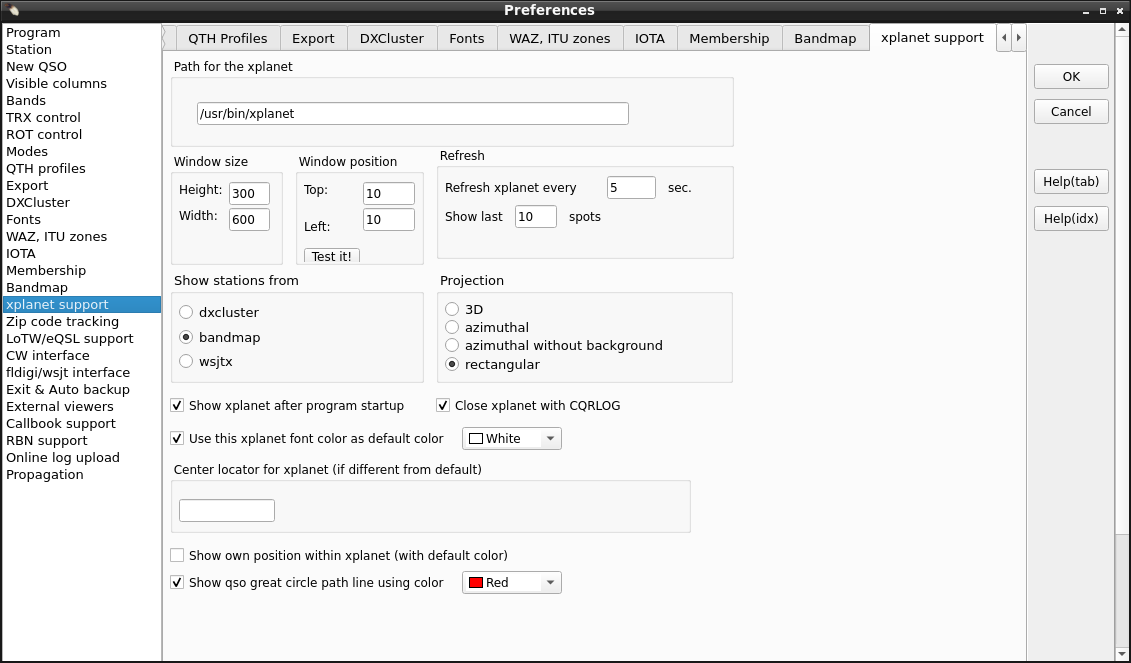
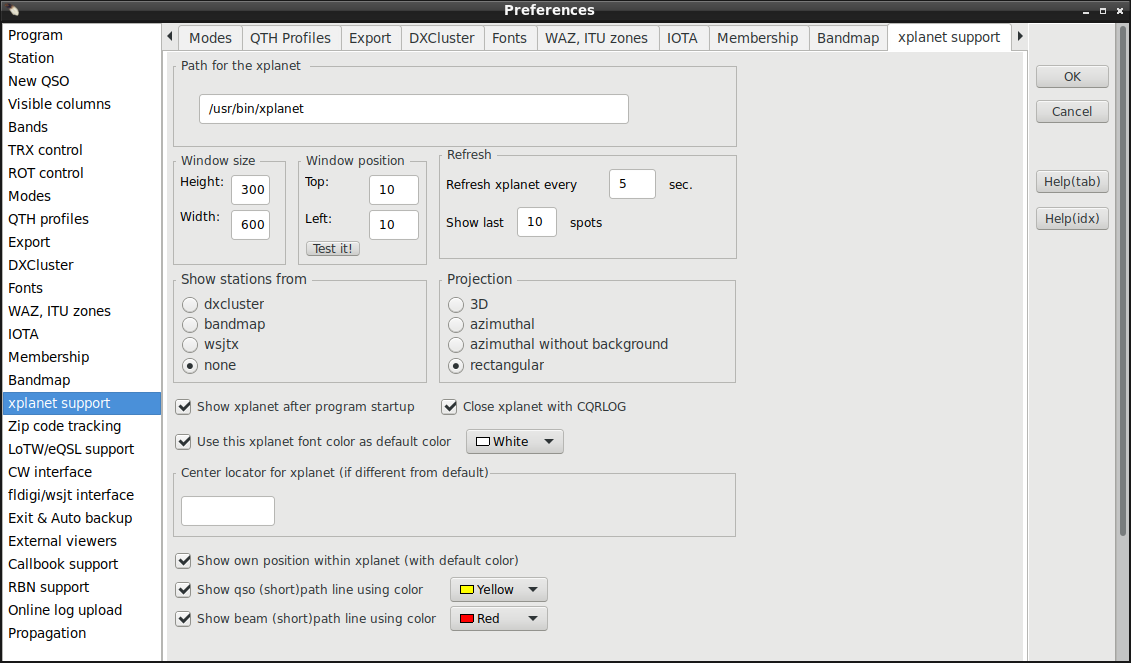
Xplanet:Add:Show Beam path in Xplanet (if rotor assigned) (this need some math fixes still)

diff --git a/help/h1.html b/help/h1.html
@@ -647,17 +647,22 @@ There are no known dependencies issues.<br><br>
     300x300 etc. to avoid strange effects). Also, the <strong>window position</strong>
     must be set up to create a nice looking screen. Use the <strong>Test it!</strong>
     button to see how your settings affect the resulting screen.<br><br>
+    There are also other settings that you may like to change. Open ~/.config/cqrlog/xplanet/geoconfig file with text editor.
+    With lines in [earth] section:
+    <br>twilight=50
+    <br>shade=5
+    <br>you can create Grayline. Adjust values suitable for you. For other settings: consult xplanet man pages.
+    <br>
     Xplanet can refresh its display at a preset interval. This is very useful because it
     can read the spot (entry) list and update the displayed data. To avoid a 'flooded',
     unreadable window, the number of displayed spots/entries must be limited. It seems
     that 20 is the maximum to keep the display garbage away. Actually, the number of
     spots (entries) is not limited by the program but by the readability. If you change
     the number of spots to be displayed or if the spots should (should not) be sent to
-    xplanet, restart the program. Remember that a program restart will be needed to
-    make the changes take effect!<br><br>
-    Set up the source (DX Cluster, Band map) by checking the appropriate radio button
+    xplanet,  Remember that the change may take some refresh periods to make the changes take effect!<br><br>
+    Set up the source (DX Cluster, Band map, Wsjtx, None) by checking the appropriate radio button
     in the '<strong>Show stations from</strong>' section. The '<strong>Projection</strong>'
-    has 3 options:<br>
+    has 4 options:<br>
     <ul>
         <li><strong>3D</strong> - shows the globe as viewed from space. This rendering
             type without any projection is very nice, however the very distant points will not be
@@ -676,14 +681,15 @@ There are no known dependencies issues.<br><br>
             'emergency' solution which is useful if you have not enough space to set up
             the main xplanet window as a square.
         </li>
+        <li><strong>Rectangular</strong> - is the same as Grayline map has
+        </li>
     </ul>
     The center locator for the xplanet window can be customized by configuring in on 
-    this page. In case the field is empty the default locator of the station is used.<br><br>
+    this page. In case the field is empty the default locator of the station is used.<br>
     If you want to have your own position displayed within xplanet check the <strong>Show own 
-    position within xplanet</strong> checkbox.<br><br>
-    this page. In case the field is empty the default locator of the station is used.<br><br>
-    The xplanet window currently has no other function than to display spots or band
-    map entries in the azimuthal projection or 3D-like picture.
+    position within xplanet</strong> checkbox. Own position is always shown with selected default color.<br>
+    The xplanet window has also functions to display Qso short path and Beam path (if rotor assigned) with selected colors
+    in the 3D-like, azimuthal projection or rectangular picture.
     <br><br>
     <a name=bh3><h2><strong>Zip code tracking</strong></h2></a>
     <img src=img/h69.png border=0><br><br>

diff --git a/help/h21.html b/help/h21.html
@@ -252,10 +252,11 @@ So any time you like you can make it larger and chat lines are there to check.</
     </tr><tr>    
         <td valign="top">
                  <img src="img/h65.png" border="0"> <img src="img/h165.png" border="0">
-            <div align="justify"><br><br>There is currently no other function than DX Cluster spot
-                displaying in true azimuthal projection with correct angles (azimuth) and distances.
-                Alternatively, a map without projection, ie. the globe as seen from space can be selected.
-                <br>With Wsjt-x as source same colors are used as with CQ-monitor and station locations are shown <b>only</b> if locator is known.
+            <div align="justify"><br><br>There are following sources: DXCluster,BandMap,Wsjtx, and None
+                You can also select to show your own position, Qso short path and Beam path (if rotor assigned).
+                Colors are same as used in sources, how ever a default color can be used for all spots.
+                Also map projection can be selected.
+                <br>With Wsjtx, as source, station locations are shown <b>only</b> if locator is known.
                 <br> See also settings in <a href="h1.html#bh2"> Preferences/xplanet support</a> 
             </div>
         </td>

diff --git a/src/changelog.html b/src/changelog.html
@@ -11,6 +11,7 @@
     <strong>Alpha test version of CQRLOG 2.6.0 (120)</strong><br>
     New in this alpha version (not in official version):<br>
     <ul style="list-style: square;text-align:left; color: green;" >
+    <li>Xplanet:Add:Show Beam path in Xplanet (if rotor assigned) (this need some math fixes still)</li>
     <li>Xplanet:Add:Show qso path in Xplanet (if selected)</li>
     <li>Xplanet:Fix: Shows own position (if checked) with all sources (prev. only with BandMap worked)</li>
     <li>NewQSO/Contest:Fix: If Ctrl+A pressed when no rig and NewQSO/Freq column empty caused 'invalid float' error</li>
